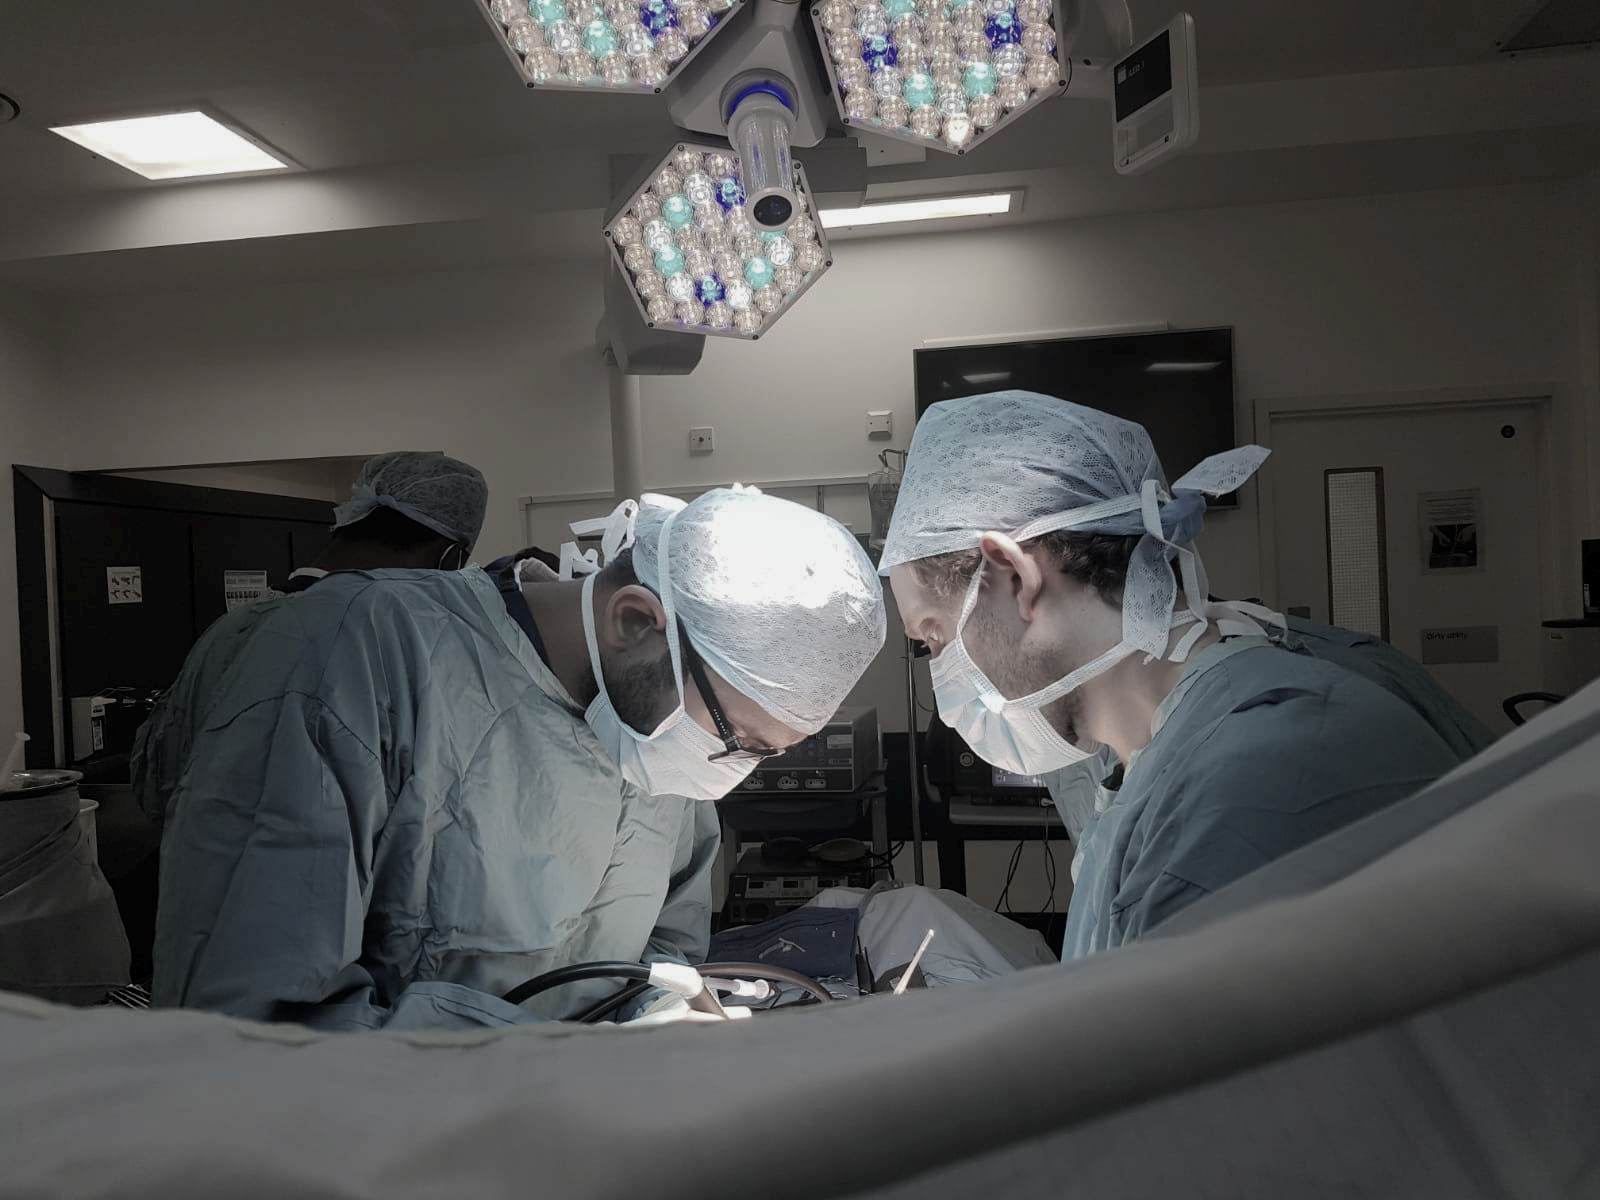
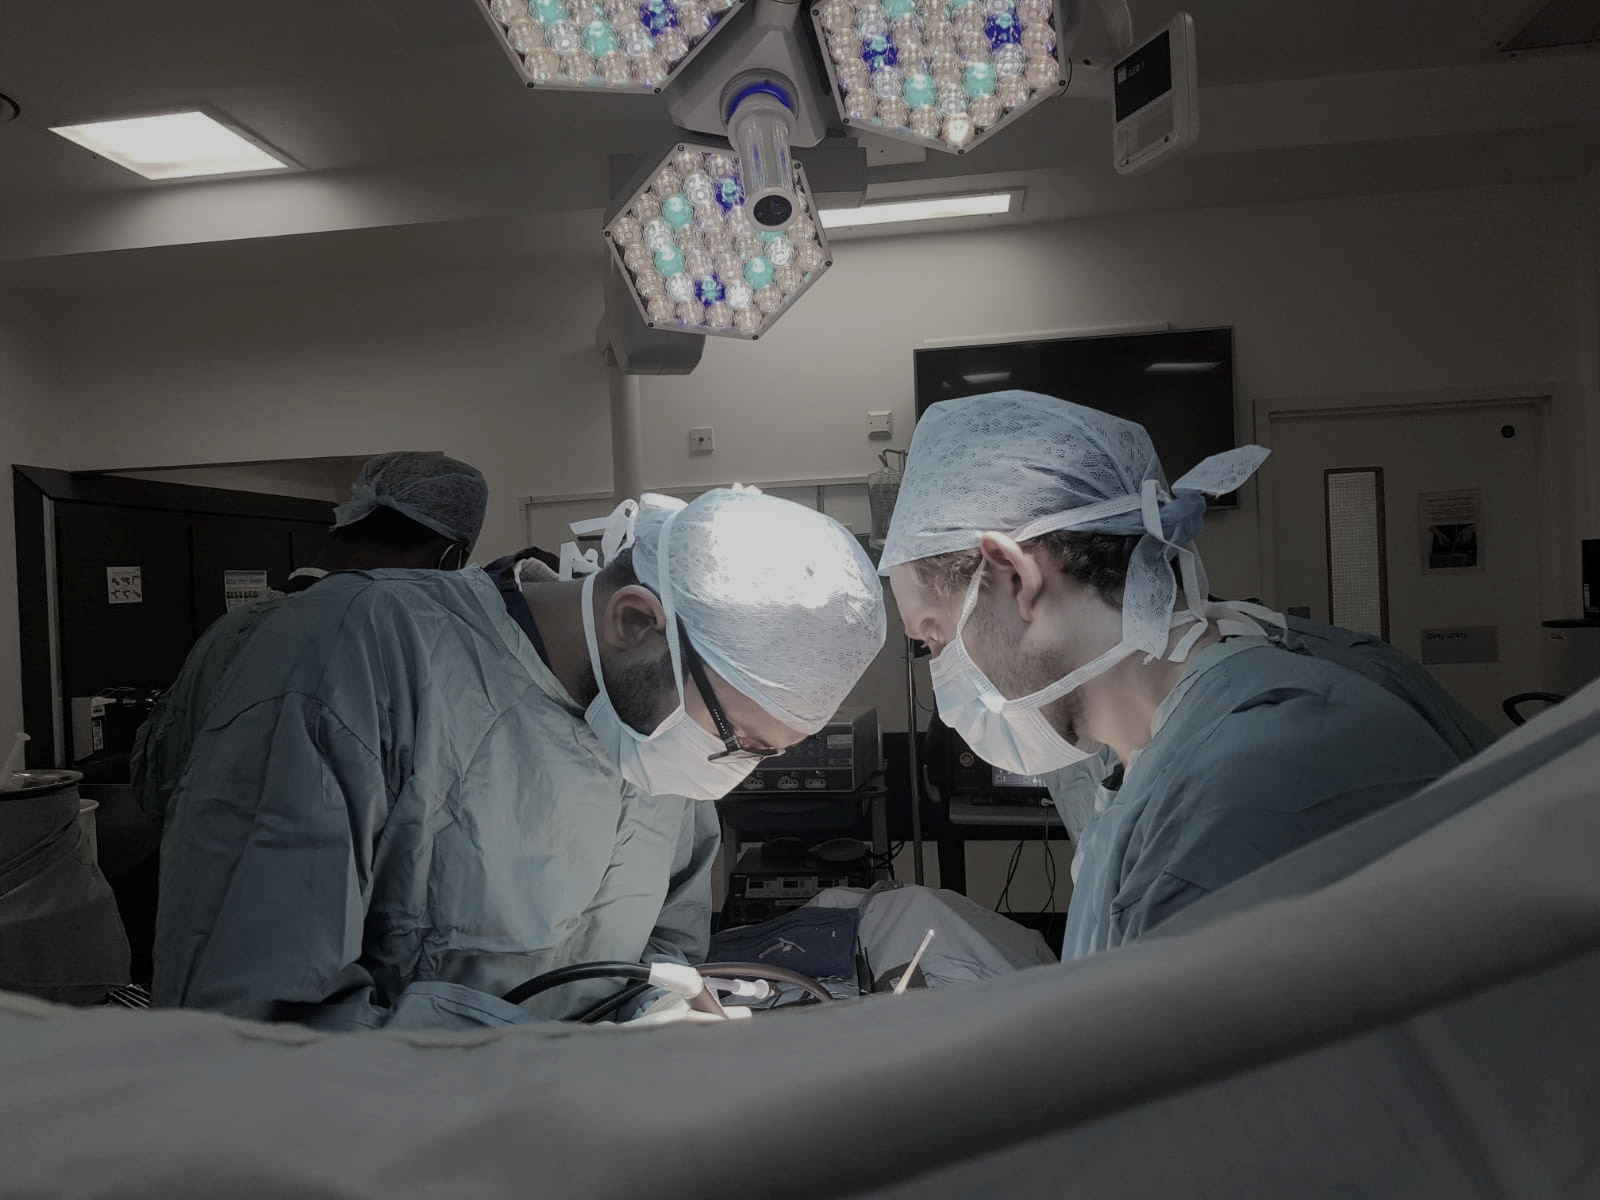
Fix: correct HTML code removing inline CSS and typos

diff --git a/index.html b/index.html
@@ -28,9 +28,9 @@
         crossorigin="anonymous" referrerpolicy="no-referrer">
 
     <link rel="stylesheet" href="/assets/css/style.css" type="text/css">
-    
+
     <title>Dhruv Parikh | Neurosurgeon</title>
-   
+
     <!-- Favicon -->
     <link rel="icon" type="image/x-icon" href="/assets/images/brain_logo_small.png" />
 </head>
@@ -92,64 +92,61 @@
     </section>
 
     <!-- Bio section -->
-    <section>
-        <div class="container-fluid mt-3">
-            <div class="row my-5">
-                <div class="col-md-4">
-                    <img class="img-responsive rounded-circle p-3" width="100%"
-                        src="/assets/images/headshot_placeholder.png" alt="Dr_Parikh_headshot">
-                </div>
-                <div class="col-md-8 p-5 pg-text-format">
-                    Mr Dhruv Parikh is a Neurosurgeon specialising in minimally invasive (endoscopic) pituitary and
-                    lateral skull base surgery. He currently holds the senior fellowship at the University Hospital of
-                    South
-                    Wales, Cardiff.
-                    <br><br>
-                    After completing his undergraduate medical studies at the University of Cardiff Mr Parikh received
-                    an MBBCh with honours and a specialist BSc in Neuroscience. He completed his postgraduate
-                    neurosurgical
-                    training in the West Midlands, gaining his completion of training in 2019. Mr Parikh specialises in
-                    state-of-the-art minimally invasive techniques, primarily to treat
-                    pituitary tumours.
-                    <br><br>
-                    To make an enquiry or appointment please contact Mr Parikh's secretary.
-                    <div class="row">
-                        <div class="col-5 mx-auto p-5">
-                            <a class="btn btn-light btn-lg contact-form hvr-grow" id="light-font" href="/contact.html" role="button">Book
-                                your Appointment</a>
-                        </div>
+    <div class="container-fluid mt-3">
+        <div class="row my-5">
+            <div class="col-md-4">
+                <img class="img-responsive rounded-circle p-3 width" src="/assets/images/headshot_placeholder.png"
+                    alt="Dr_Parikh_headshot">
+            </div>
+            <div class="col-md-8 p-5 pg-text-format">
+                Mr Dhruv Parikh is a Neurosurgeon specialising in minimally invasive (endoscopic) pituitary and
+                lateral skull base surgery. He currently holds the senior fellowship at the University Hospital of
+                South
+                Wales, Cardiff.
+                <br><br>
+                After completing his undergraduate medical studies at the University of Cardiff Mr Parikh received
+                an MBBCh with honours and a specialist BSc in Neuroscience. He completed his postgraduate
+                neurosurgical
+                training in the West Midlands, gaining his completion of training in 2019. Mr Parikh specialises in
+                state-of-the-art minimally invasive techniques, primarily to treat
+                pituitary tumours.
+                <br><br>
+                To make an enquiry or appointment please contact Mr Parikh's secretary.
+                <div class="row">
+                    <div class="col-5 mx-auto p-5">
+                        <a class="btn btn-light btn-lg contact-form hvr-grow" id="light-font" href="/contact.html"
+                            role="button">Book
+                            your Appointment</a>
                     </div>
                 </div>
             </div>
         </div>
-    </section>
+    </div>
 
     <!-- Testimonials section -->
 
-    <section>
-        <div class="container-fluid">
-            <div class="row bg-section">
-                <div class="col-sm-4 mx-auto p-5 text-center pg-text-format">
-                    "Mr Parikh was very reassuring from my first appointment to getting home after surgery. I'm very
-                    grateful to him and all the team."
-                    <hr>
-                    Norma Mortenson
-                </div>
-                <div class="col-sm-4 mx-auto p-5 text-center pg-text-format">
-                    "The team at UHW were fantastic. Especially thankful to Mr Parikh who performed the surgery that
-                    saved my sight."
-                    <hr>
-                    Audrey Ruston
-                </div>
-                <div class="col-sm-4 mx-auto p-5 text-center pg-text-format">
-                    "Mr Parikh spent time explaining the diagnosis to me and my family and helped us come to a decision
-                    about treatment together."
-                    <hr>
-                    Derrick Evans
-                </div>
+    <div class="container-fluid">
+        <div class="row bg-section">
+            <div class="col-sm-4 mx-auto p-5 text-center pg-text-format">
+                "Mr Parikh was very reassuring from my first appointment to getting home after surgery. I'm very
+                grateful to him and all the team."
+                <hr>
+                Norma Mortenson
+            </div>
+            <div class="col-sm-4 mx-auto p-5 text-center pg-text-format">
+                "The team at UHW were fantastic. Especially thankful to Mr Parikh who performed the surgery that
+                saved my sight."
+                <hr>
+                Audrey Ruston
+            </div>
+            <div class="col-sm-4 mx-auto p-5 text-center pg-text-format">
+                "Mr Parikh spent time explaining the diagnosis to me and my family and helped us come to a decision
+                about treatment together."
+                <hr>
+                Derrick Evans
             </div>
         </div>
-    </section>
+    </div>
 
     <!-- Footer -->
     <footer class="footer">
@@ -159,7 +156,8 @@
                     <img class="footer-logo img-responsive" src="/assets/images/MPS_logo_1.png" alt="SBNS Logo">
                 </div>
                 <div class="col-4 col-md-2 text-center pt-5">
-                    <img class="footer-logo img-responsive" src="/assets/images/General_Medical_Council_logo_2.png" alt="Royal College Surgeons Logo">
+                    <img class="footer-logo img-responsive" src="/assets/images/General_Medical_Council_logo_2.png"
+                        alt="Royal College Surgeons Logo">
                 </div>
                 <div class="col-4 col-md-2 text-center pt-5">
                     <img class="footer-logo img-responsive" src="/assets/images/bsbs_logo_3.jpg" alt="BSBS Logo">
@@ -168,7 +166,8 @@
                     <img class="footer-logo img-responsive" src="/assets/images/cns_blue_logo_4.png" alt="CNS Logo">
                 </div>
                 <div class="col-4 col-md-2 text-center pt-5">
-                    <img class="footer-logo img-responsive" src="/assets/images/royal_college_of_surgeons_logo_7.png" alt="RCS Logo">
+                    <img class="footer-logo img-responsive" src="/assets/images/royal_college_of_surgeons_logo_7.png"
+                        alt="RCS Logo">
                 </div>
                 <div class="col-4 col-md-2 text-center pt-5">
                     <img class="footer-logo img-responsive" src="/assets/images/sbns-logo_6.png" alt="SBNS Logo">
@@ -178,7 +177,7 @@
         <div class="footer-copyright text-center pt-5">© 2020 Copyright JMParikh
         </div>
     </footer>
-    
+
     <script src="https://cdn.jsdelivr.net/npm/bootstrap@5.0.2/dist/js/bootstrap.bundle.min.js"
         integrity="sha384-MrcW6ZMFYlzcLA8Nl+NtUVF0sA7MsXsP1UyJoMp4YLEuNSfAP+JcXn/tWtIaxVXM" crossorigin="anonymous">
     </script>

diff --git a/assets/css/style.css b/assets/css/style.css
@@ -50,11 +50,10 @@
   background: url("/assets/images/hero_surgery.png") no-repeat center center fixed;
   height: 90vh;
   background-size: cover;
-  filter: grayscale(80%);
-  -webkit-filter: grayscale(80%);
-  -moz-filter: grayscale(80%);
-  -o-filter: grayscale(80%);
-  filter: brightness(80%);
+}
+
+.width {
+  width: 100%;
 }
 
 .bg-section {
